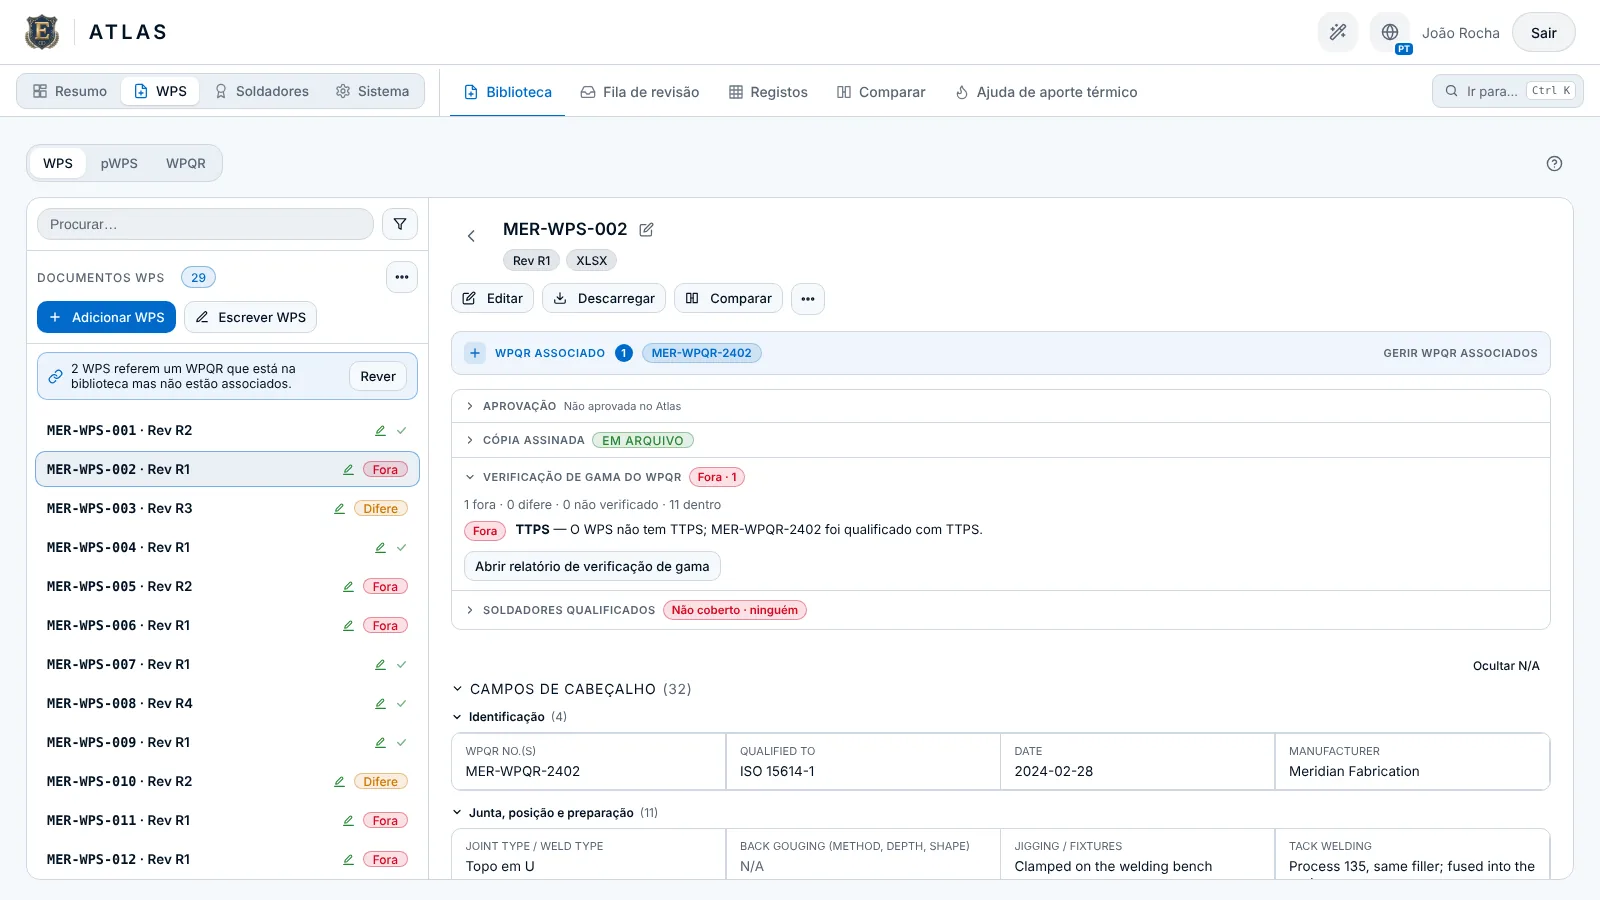
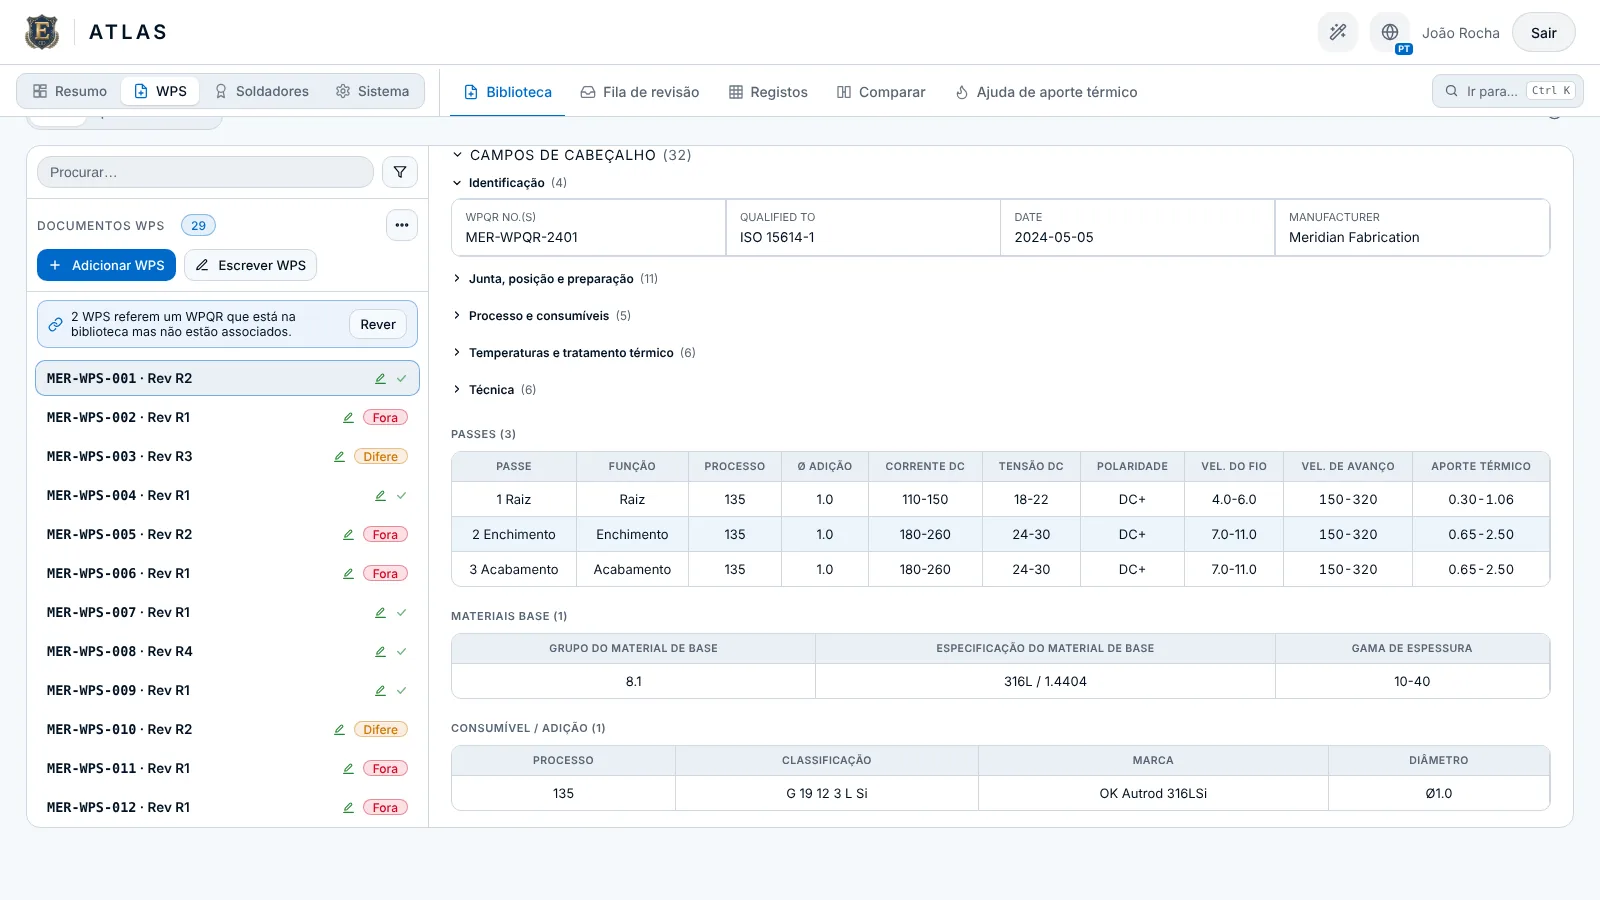
Homepage Atlas card and Library shot on MER-WPS-001 (all green), EN/PT/ES light and dark
The card had shown MER-WPS-002 with a red 'Not covered' pill. It now uses
its own capture (door-library.webp) with the crop re-tuned for the 1.2
layout. The Library shot shows the header block and full pass table; alt
text updated in all three languages.

Claude-Session: https://claude.ai/code/session_017LWkXh1yq5aF4wVxsgfDkE

diff --git a/docs/_includes/door-shot.html b/docs/_includes/door-shot.html
@@ -6,7 +6,7 @@
 {%- endcomment -%}
 {%- assign L = page.lang | default: 'en' -%}
 {%- if include.product == 'atlas' -%}
-{%- if L == 'pt' %}{% assign src = '/static/wpsm/pt/library.webp' %}{% assign alt = 'Biblioteca de WPS do Atlas: lista de WPS importadas com os campos lidos e o WPQR ligado' %}{% elsif L == 'es' %}{% assign src = '/static/wpsm/es/library.webp' %}{% assign alt = 'Biblioteca de WPS de Atlas: lista de WPS importadas con los campos leídos y el WPQR vinculado' %}{% else %}{% assign src = '/static/wpsm/library.webp' %}{% assign alt = 'Atlas WPS library: imported WPS with their parsed fields and linked WPQR' %}{% endif %}
+{%- if L == 'pt' %}{% assign src = '/static/wpsm/pt/door-library.webp' %}{% assign alt = 'Biblioteca de WPS do Atlas: lista de WPS importadas com os campos lidos e o WPQR ligado' %}{% elsif L == 'es' %}{% assign src = '/static/wpsm/es/door-library.webp' %}{% assign alt = 'Biblioteca de WPS de Atlas: lista de WPS importadas con los campos leídos y el WPQR vinculado' %}{% else %}{% assign src = '/static/wpsm/door-library.webp' %}{% assign alt = 'Atlas WPS library: imported WPS with their parsed fields and linked WPQR' %}{% endif %}
                     <div class="door-shot door-shot-photo">
                         <img class="shot-light" src="{{ src | replace: '/static/wpsm/', '/static/wpsm/light/' }}" width="1600" height="900" loading="lazy" decoding="async" alt="{{ alt }}">
                         <img class="shot-dark" src="{{ src }}" width="1600" height="900" loading="lazy" decoding="async" alt="{{ alt }}">

diff --git a/docs/es/wps-library-search-software.html b/docs/es/wps-library-search-software.html
@@ -50,7 +50,7 @@ crumb: "Biblioteca y Búsqueda de WPS"
     <section class="page-section container u-tight-top" id="screenshot-hero">
         {% include app-shot.html
             name="library" wide="true"
-            alt="La biblioteca de Atlas con la WPS MER-WPS-002 abierta: la lista de WPS marcadas como Procesadas y Vinculadas a la izquierda y, a la derecha, la WPS leída en diecisiete campos de cabecera y una tabla de cuatro pasadas con proceso, material de aporte, polaridad, intensidad, tensión, velocidad y aporte térmico"
+            alt="La biblioteca de Atlas con la WPS MER-WPS-001 abierta: la lista de WPS con el estado de cada documento a la izquierda y, a la derecha, la WPS leída en sus campos de cabecera y una tabla de tres pasadas con proceso, material de aporte, polaridad, intensidad, tensión, velocidad y aporte térmico"
             cap="La biblioteca: pestañas WPS / pWPS / WPQR con el estado de procesamiento y de vinculación, y una WPS leída hasta el bloque de cabecera y la tabla de pasadas completa."
             ph="La biblioteca — pestañas WPS/pWPS/WPQR, un doc que muestra cabecera + tabla de pasadas (lado/función), panel de facetas, indicador «N revisiones»." %}
     </section>

diff --git a/docs/pt/wps-library-search-software.html b/docs/pt/wps-library-search-software.html
@@ -50,7 +50,7 @@ crumb: "Biblioteca e Pesquisa de WPS"
     <section class="page-section container u-tight-top" id="screenshot-hero">
         {% include app-shot.html
             name="library" wide="true"
-            alt="A biblioteca do Atlas com a WPS MER-WPS-002 aberta: a lista de WPS marcadas como Processadas e Associadas à esquerda e, à direita, a WPS lida em dezassete campos de cabeçalho e numa tabela de quatro passes com processo, material de adição, polaridade, corrente, tensão, velocidade e aporte térmico"
+            alt="A biblioteca do Atlas com a WPS MER-WPS-001 aberta: a lista de WPS com o estado de cada documento à esquerda e, à direita, a WPS lida em nos seus campos de cabeçalho e numa tabela de três passes com processo, material de adição, polaridade, corrente, tensão, velocidade e aporte térmico"
             cap="A biblioteca: separadores WPS / pWPS / WPQR com o estado de processamento e de associação, e uma WPS lida até ao bloco de cabeçalho e à tabela de passes completa."
             ph="A biblioteca — separadores WPS/pWPS/WPQR, um doc a mostrar cabeçalho + tabela de passes (lado/função), painel de facetas, indicador “N revisões”." %}
     </section>

diff --git a/docs/es/atlas-features.html b/docs/es/atlas-features.html
@@ -194,7 +194,7 @@ crumb: "Funciones"
             <div class="tour-media">
                 {% include app-shot.html
                     name="library" wide="true" w="1600" h="900"
-                    alt="La biblioteca de Atlas con la WPS MER-WPS-002 abierta: la lista de WPS marcadas como Procesadas y Vinculadas a la izquierda y, a la derecha, la WPS leída en diecisiete campos de cabecera y una tabla de cuatro pasadas con proceso, material de aporte, polaridad, intensidad, tensión, velocidad y aporte térmico"
+                    alt="La biblioteca de Atlas con la WPS MER-WPS-001 abierta: la lista de WPS con el estado de cada documento a la izquierda y, a la derecha, la WPS leída en sus campos de cabecera y una tabla de tres pasadas con proceso, material de aporte, polaridad, intensidad, tensión, velocidad y aporte térmico"
                     cap="Un documento leído al campo: el bloque de cabecera y cada pasada — de la raíz a la peineta — con sus parámetros y valores de aporte térmico, todo estructurado y buscable." %}
             </div>
         </div>

diff --git a/docs/pt/atlas-features.html b/docs/pt/atlas-features.html
@@ -194,7 +194,7 @@ crumb: "Funcionalidades"
             <div class="tour-media">
                 {% include app-shot.html
                     name="library" wide="true" w="1600" h="900"
-                    alt="A biblioteca do Atlas com a WPS MER-WPS-002 aberta: a lista de WPS marcadas como Processadas e Associadas à esquerda e, à direita, a WPS lida em dezassete campos de cabeçalho e numa tabela de quatro passes com processo, material de adição, polaridade, corrente, tensão, velocidade e aporte térmico"
+                    alt="A biblioteca do Atlas com a WPS MER-WPS-001 aberta: a lista de WPS com o estado de cada documento à esquerda e, à direita, a WPS lida em nos seus campos de cabeçalho e numa tabela de três passes com processo, material de adição, polaridade, corrente, tensão, velocidade e aporte térmico"
                     cap="Um documento lido ao campo: o bloco de cabeçalho e cada passe — da raiz à capa — com os seus parâmetros e valores de aporte térmico, tudo estruturado e pesquisável." %}
             </div>
         </div>

diff --git a/docs/wps-library-search-software.html b/docs/wps-library-search-software.html
@@ -48,7 +48,7 @@ crumb: "WPS Library & Search"
     <section class="page-section container u-tight-top" id="screenshot-hero">
         {% include app-shot.html
             name="library" wide="true"
-            alt="The Atlas library with WPS MER-WPS-002 open: the WPS list marked Parsed and Linked on the left, and on the right the WPS read into seventeen header fields and a four-pass table with process, filler, polarity, current, voltage, travel speed and heat input"
+            alt="The Atlas library with WPS MER-WPS-001 open: the WPS list with each document's status on the left, and on the right the WPS read into its header fields and a three-pass table with process, filler, polarity, current, voltage, travel speed and heat input"
             cap="The library: WPS / pWPS / WPQR tabs with parse and link status, and a WPS read down to its header block and full pass table."
             ph="The library — WPS/pWPS/WPQR tabs, a doc showing header fields + pass table (side/role), facet panel open, an “N revisions” chip." %}
     </section>

diff --git a/docs/atlas-features.html b/docs/atlas-features.html
@@ -187,7 +187,7 @@ crumb: "Features"
             <div class="tour-media">
                 {% include app-shot.html
                     name="library" wide="true" w="1600" h="900"
-                    alt="The Atlas library with WPS MER-WPS-002 open: the WPS list marked Parsed and Linked on the left, and on the right the WPS read into seventeen header fields and a four-pass table with process, filler, polarity, current, voltage, travel speed and heat input"
+                    alt="The Atlas library with WPS MER-WPS-001 open: the WPS list with each document's status on the left, and on the right the WPS read into its header fields and a three-pass table with process, filler, polarity, current, voltage, travel speed and heat input"
                     cap="A document read to the field: the header block and every pass — root to cap — with its parameters and heat-input values, all structured and searchable." %}
             </div>
         </div>

diff --git a/docs/style.css b/docs/style.css
@@ -5038,7 +5038,7 @@ button.app-figure-frame:focus-visible .app-figure-zoom-hint {
     top: 0;
     left: 0;
     width: 165%;
-    transform: translate(-0.5%, -38%);
+    transform: translate(-0.5%, -28%);   /* door-library.webp (Atlas 1.2): list + MER-WPS-001 status rows */
     max-width: none;
     height: auto;
     opacity: 0.92;
